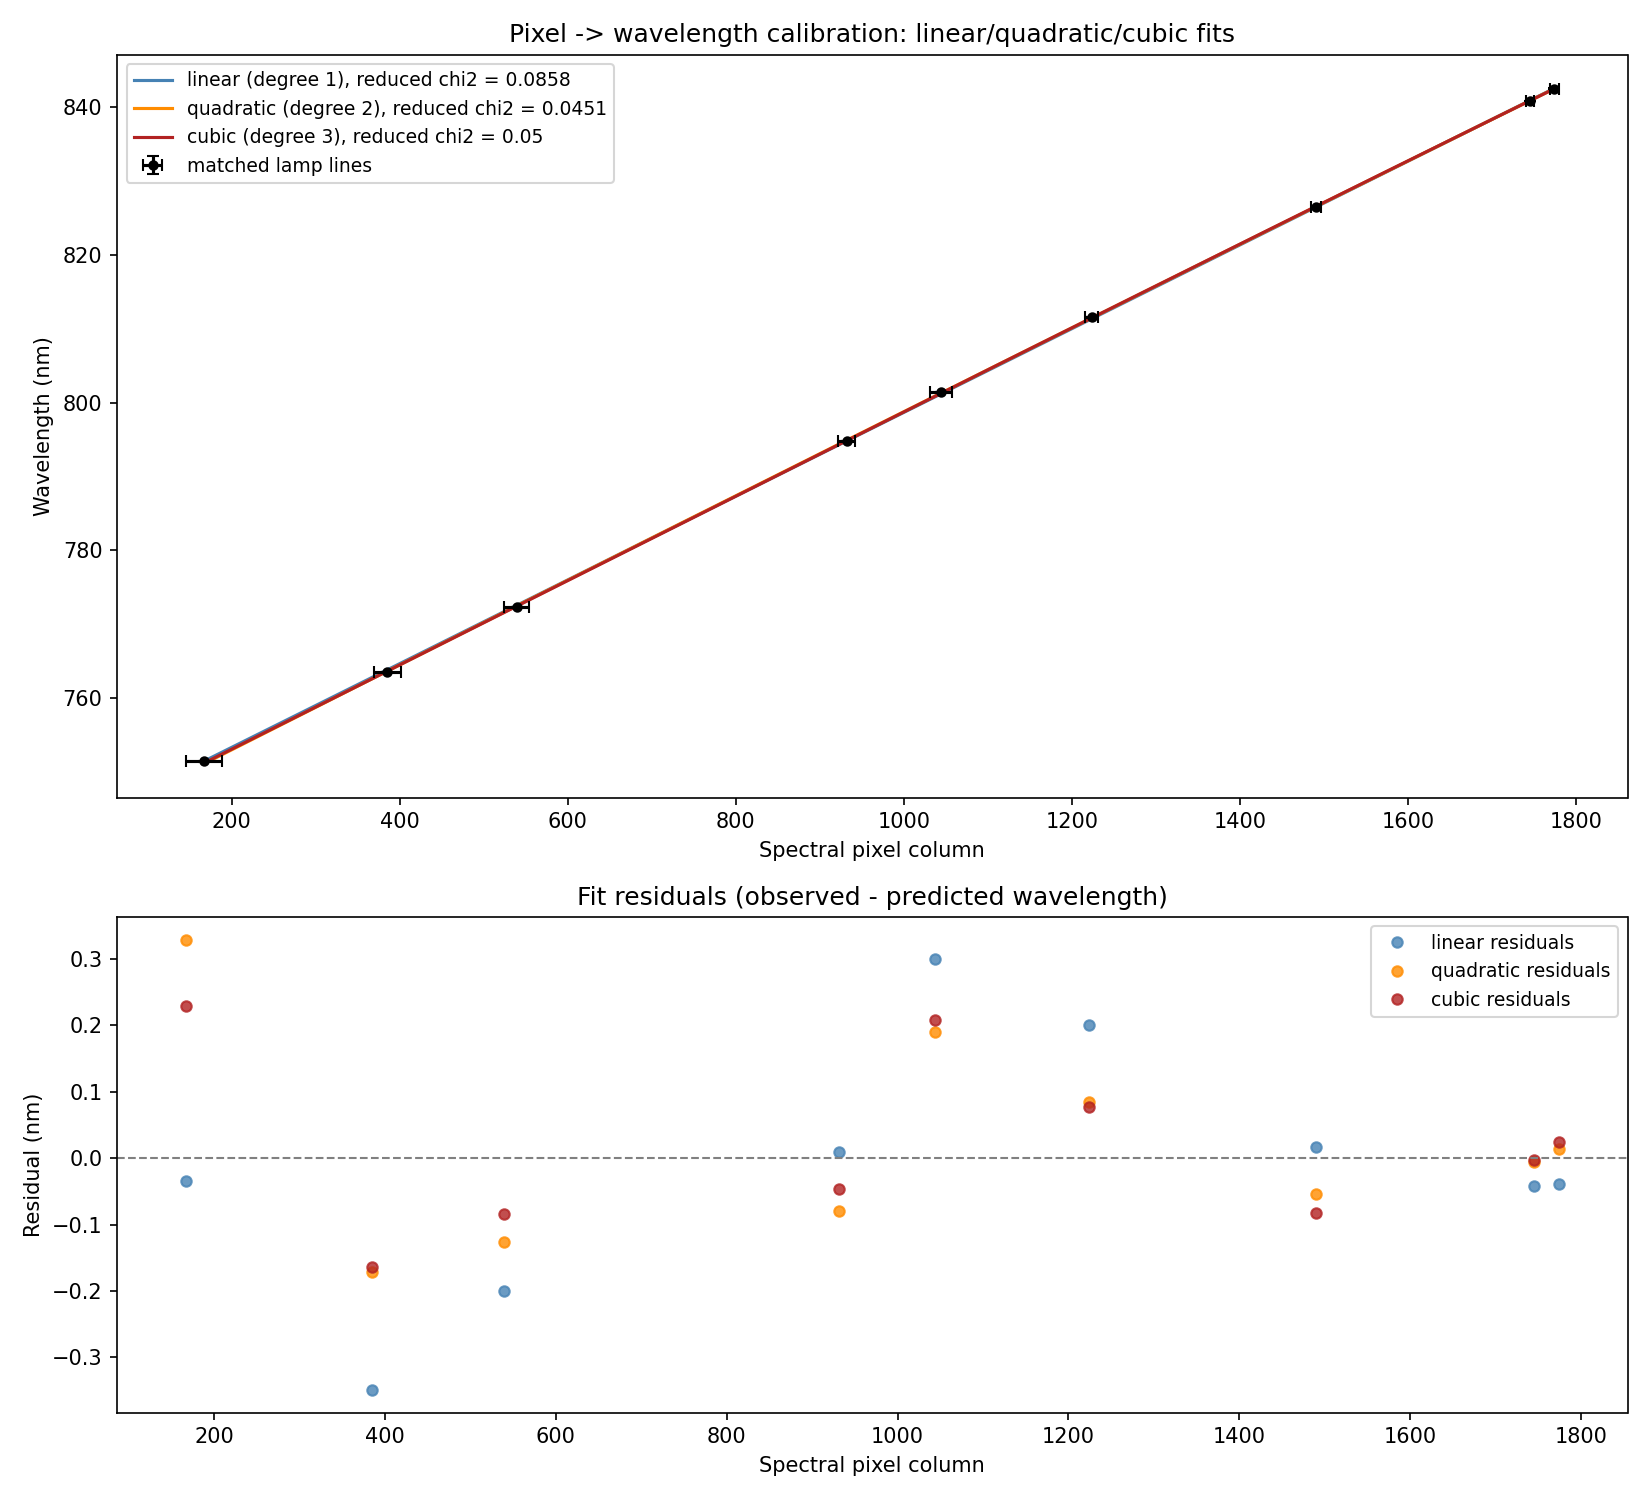
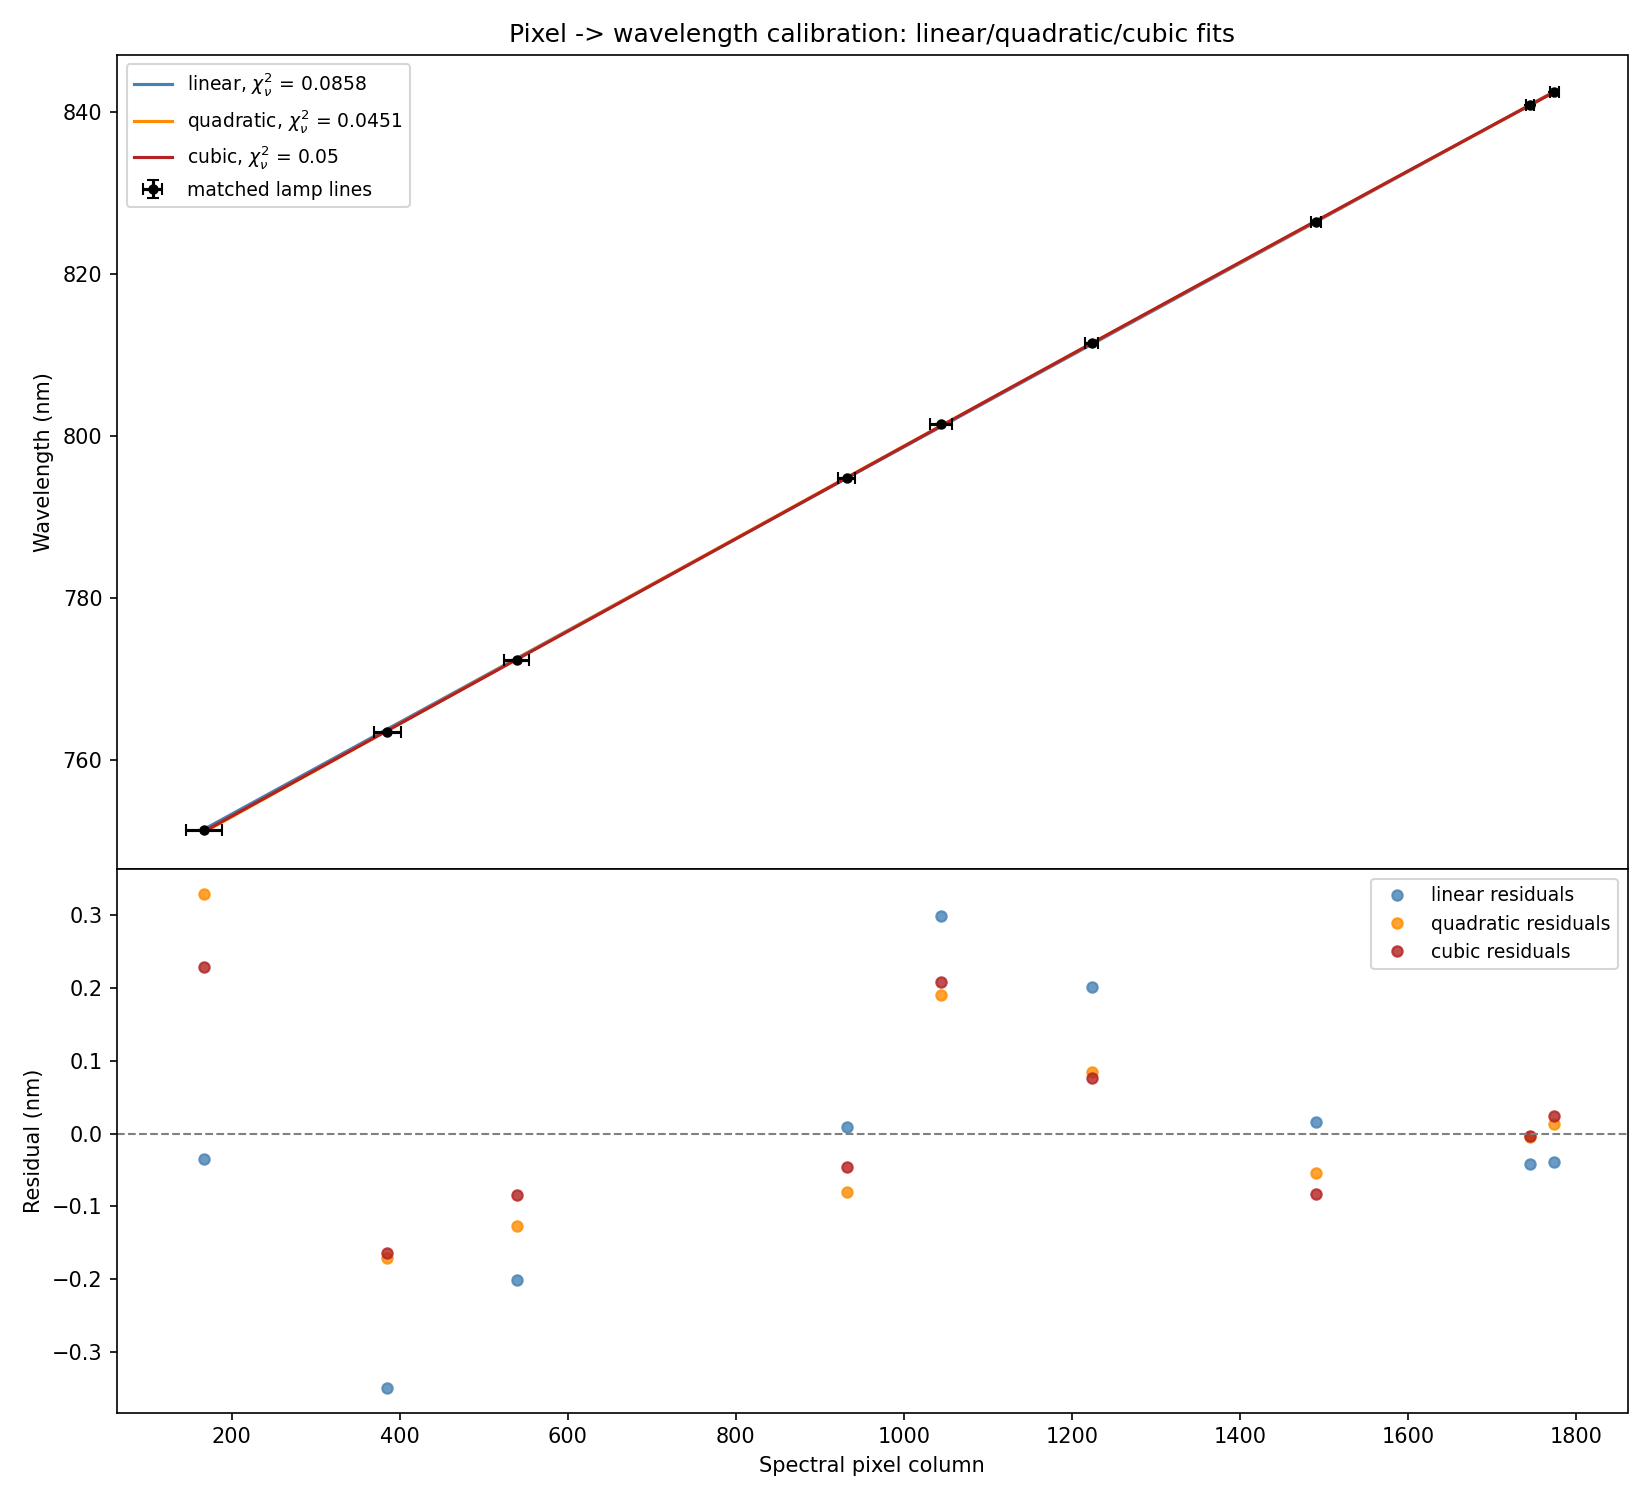
Clean up degree-comparison plot legend and layout

diff --git a/scripts/compare_spectral_calibration_degrees.py b/scripts/compare_spectral_calibration_degrees.py
@@ -119,7 +119,10 @@ def plot_comparison(
     the visual sign a lower degree is inadequate.
     '''
 
-    fig, (ax_fit, ax_resid) = plt.subplots(2, 1, figsize=(11, 10), height_ratios=(3, 2))
+    fig, (ax_fit, ax_resid) = plt.subplots(
+        2, 1, figsize=(11, 10), height_ratios=(3, 2), sharex=True,
+        gridspec_kw={"hspace": 0},
+    )
 
     ax_fit.errorbar(
         pixel, wavelength_nm, xerr=sigma_pixel, yerr=sigma_wavelength_nm,
@@ -131,12 +134,12 @@ def plot_comparison(
         curve = results[degree].wavelength_nm(pixel_range)
         ax_fit.plot(
             pixel_range, curve, color=DEGREE_COLORS[degree], linewidth=1.5,
-            label=f"{DEGREE_LABELS[degree]} (degree {degree}), reduced chi2 = {fit.reduced_chi_squared:.3g}",
+            label=fr"{DEGREE_LABELS[degree]}, $\chi^2_\nu$ = {fit.reduced_chi_squared:.3g}",
         )
-    ax_fit.set_xlabel("Spectral pixel column")
     ax_fit.set_ylabel("Wavelength (nm)")
     ax_fit.set_title("Pixel -> wavelength calibration: linear/quadratic/cubic fits")
     ax_fit.legend(fontsize=9)
+    ax_fit.tick_params(axis="x", labelbottom=False)
 
     for degree in DEGREES:
         fit = results[degree].fit
@@ -147,10 +150,10 @@ def plot_comparison(
     ax_resid.axhline(0.0, color="gray", linestyle="--", linewidth=1)
     ax_resid.set_xlabel("Spectral pixel column")
     ax_resid.set_ylabel("Residual (nm)")
-    ax_resid.set_title("Fit residuals (observed - predicted wavelength)")
     ax_resid.legend(fontsize=9)
 
     plt.tight_layout()
+    fig.subplots_adjust(hspace=0)
     output_path.parent.mkdir(parents=True, exist_ok=True)
     fig.savefig(output_path, dpi=150)
     print(f"Saved comparison plot to {output_path}")
